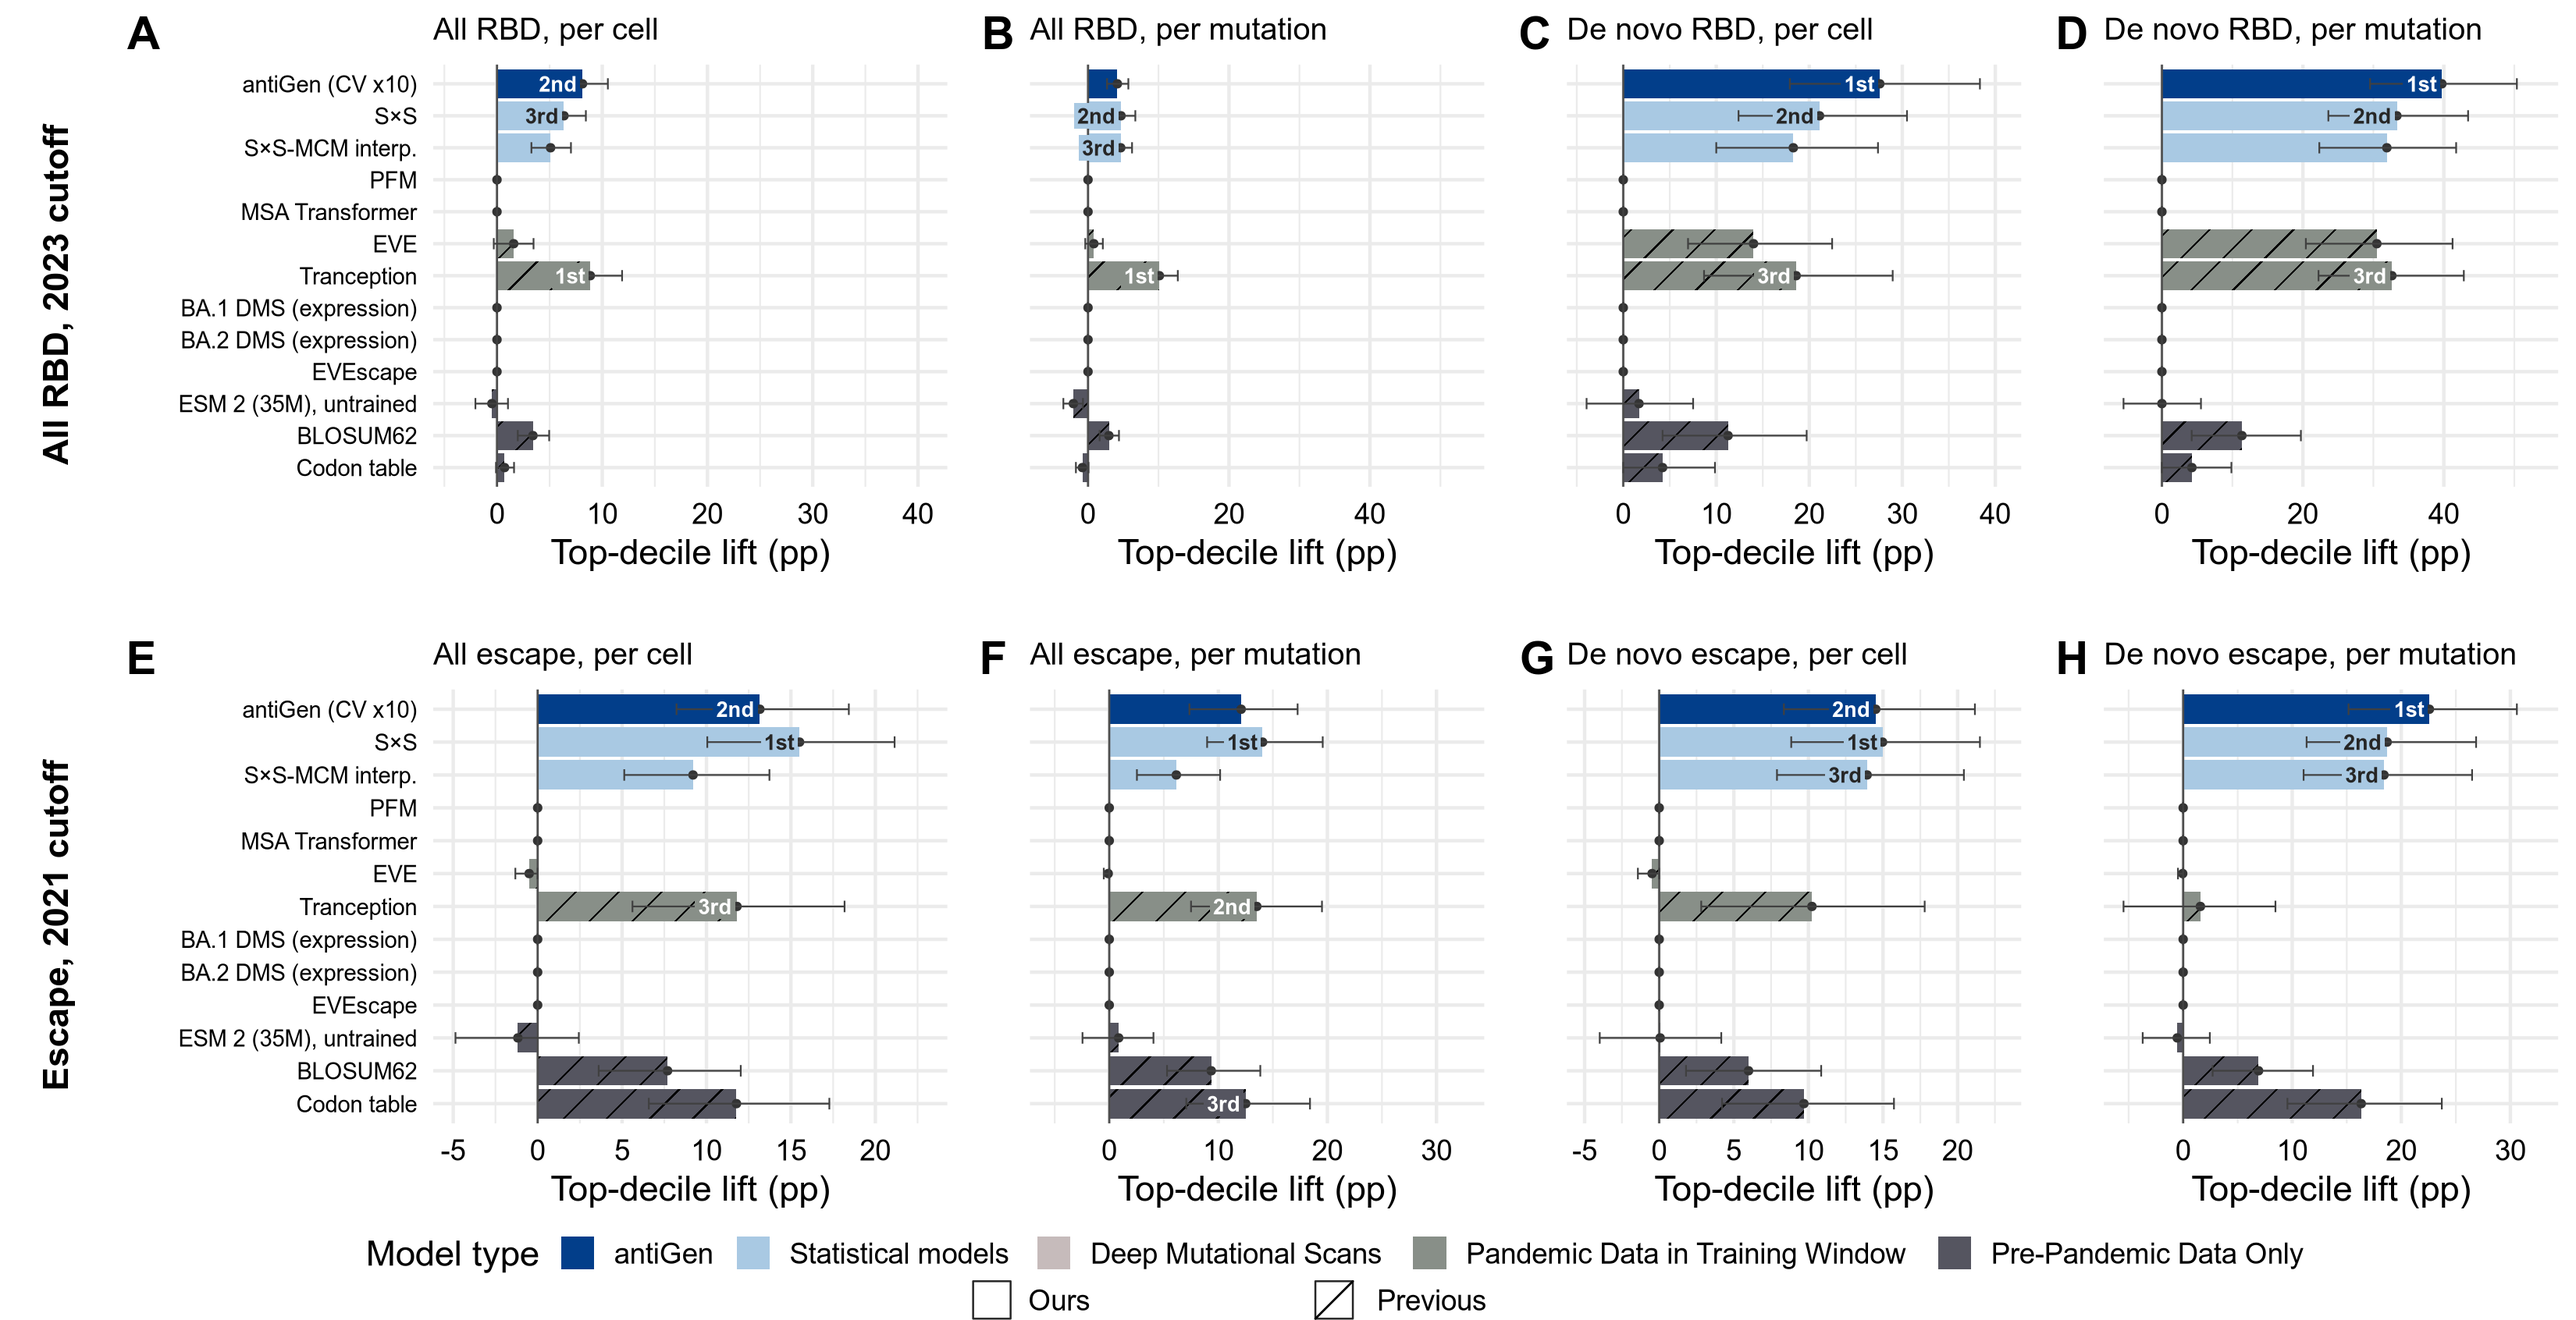
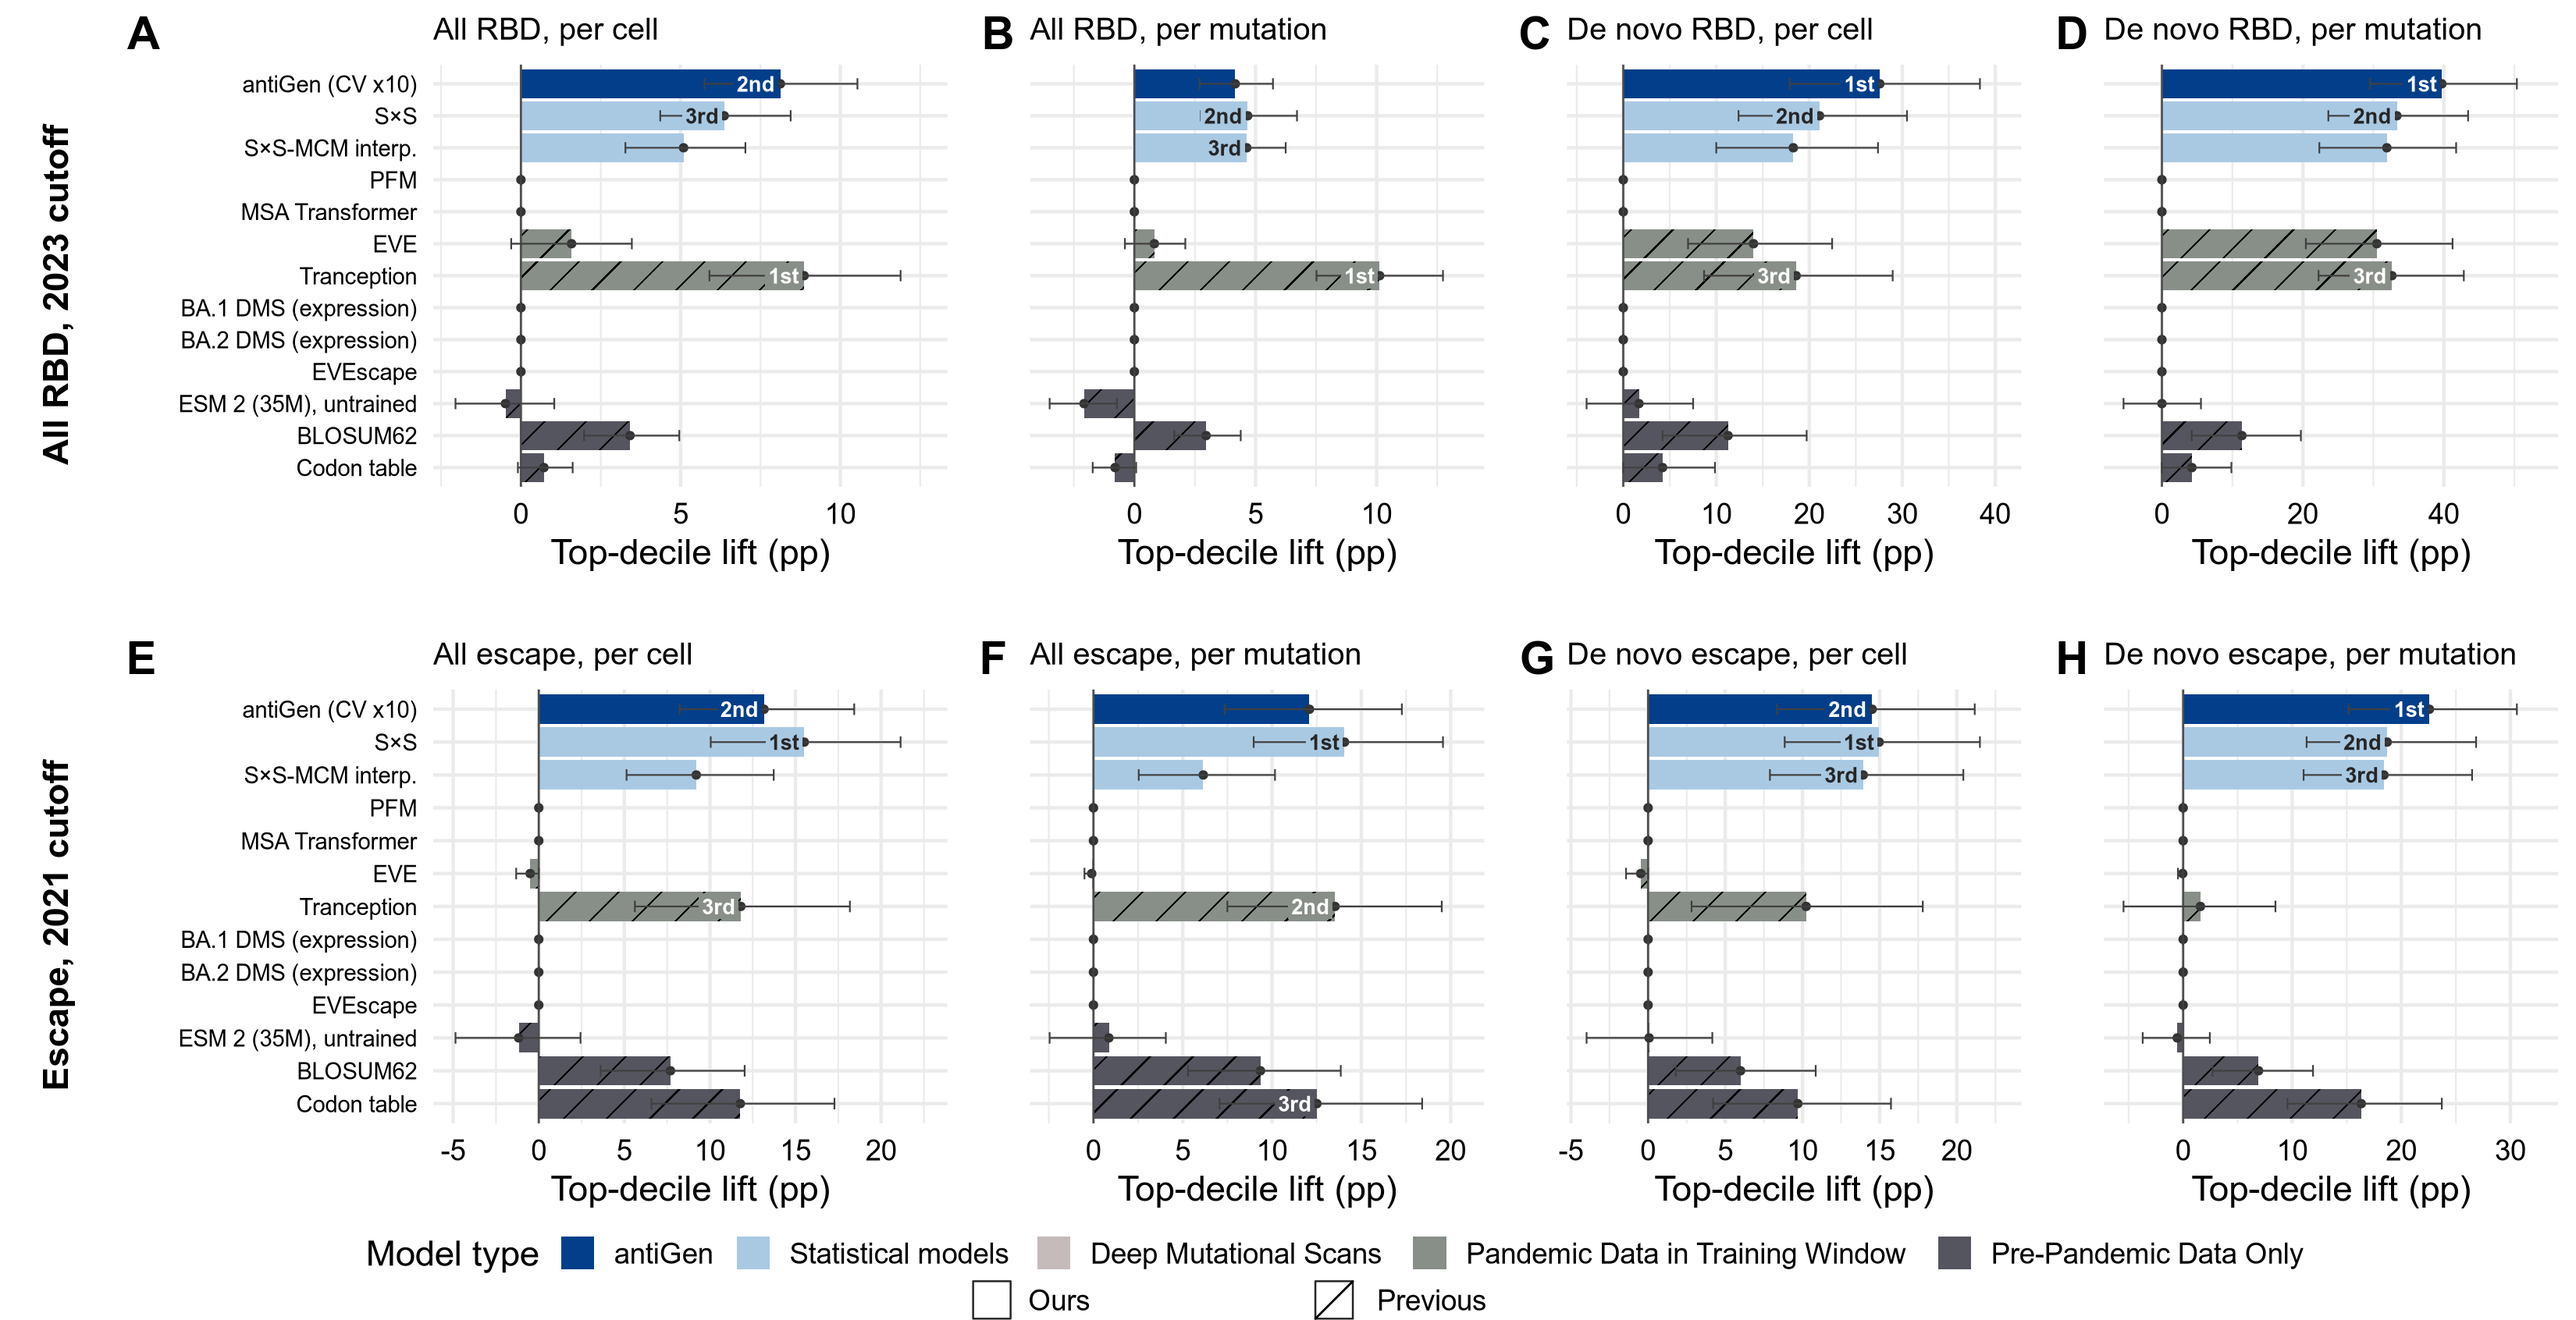
supp_query_adapt: each panel's x range fits its own bars and intervals (s142)

diff --git a/experiments/multitree/NOTES.md b/experiments/multitree/NOTES.md
@@ -13068,3 +13068,11 @@ maps and must reproduce their rows. It then scores the three mean rules with
 antiGen base +5.5 / +26.1. **The ESM-2 35M partial FT is -22.5 pp on `rbd_all`**: it
 ranks a cell LOWER on the genotypes that hosted it than on the BA.2 root. At 2021 it was
 positive. Not chased.
+
+## 142. supp_query_adapt: one x range per panel (2026-11-09)
+
+On request, the x axes were tightened. Each panel had shared `bg_range_for` with its
+all/de novo partner, so the all-cells panels inherited de novo's 0-40 when their own
+bars end near 12. Each `bg_bar_top` call now passes its own metric alone, so every
+panel's range covers its own bars and 95% intervals, plus the drawer's 5% padding.
+Only this supplement's panels change.
